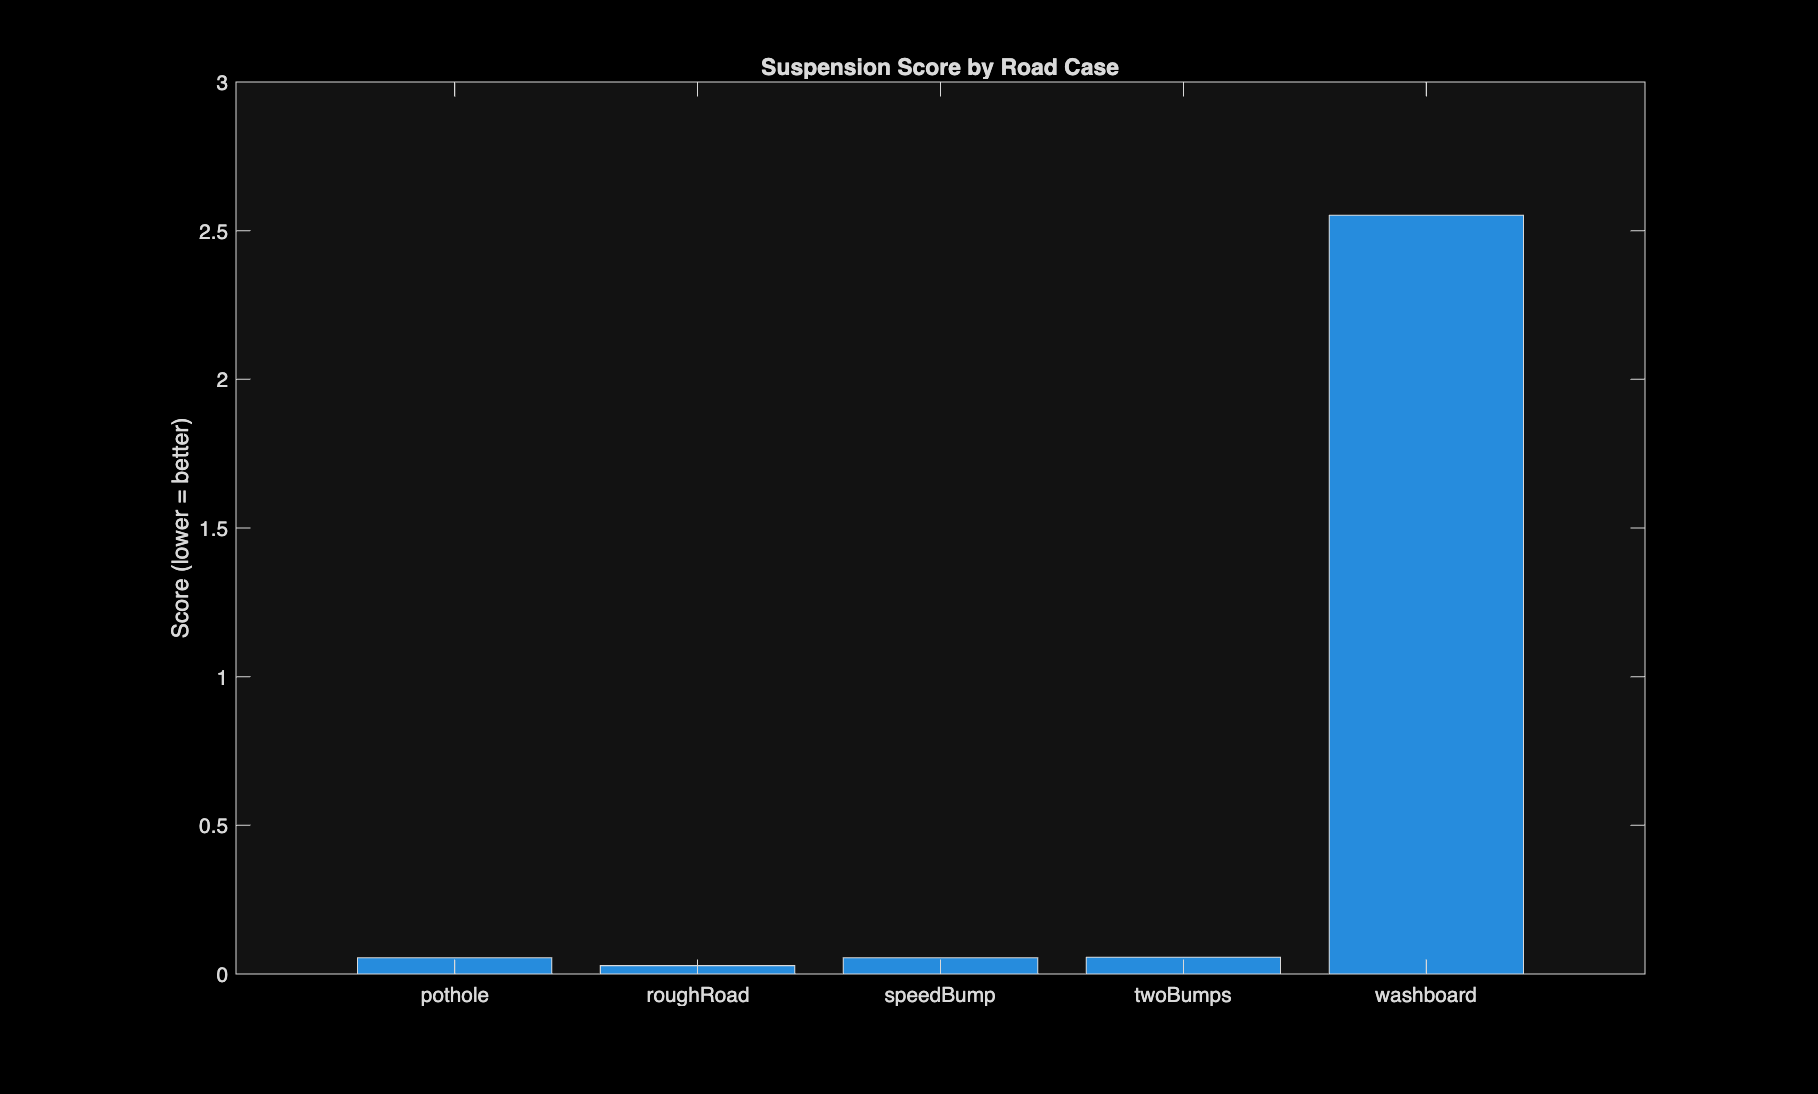
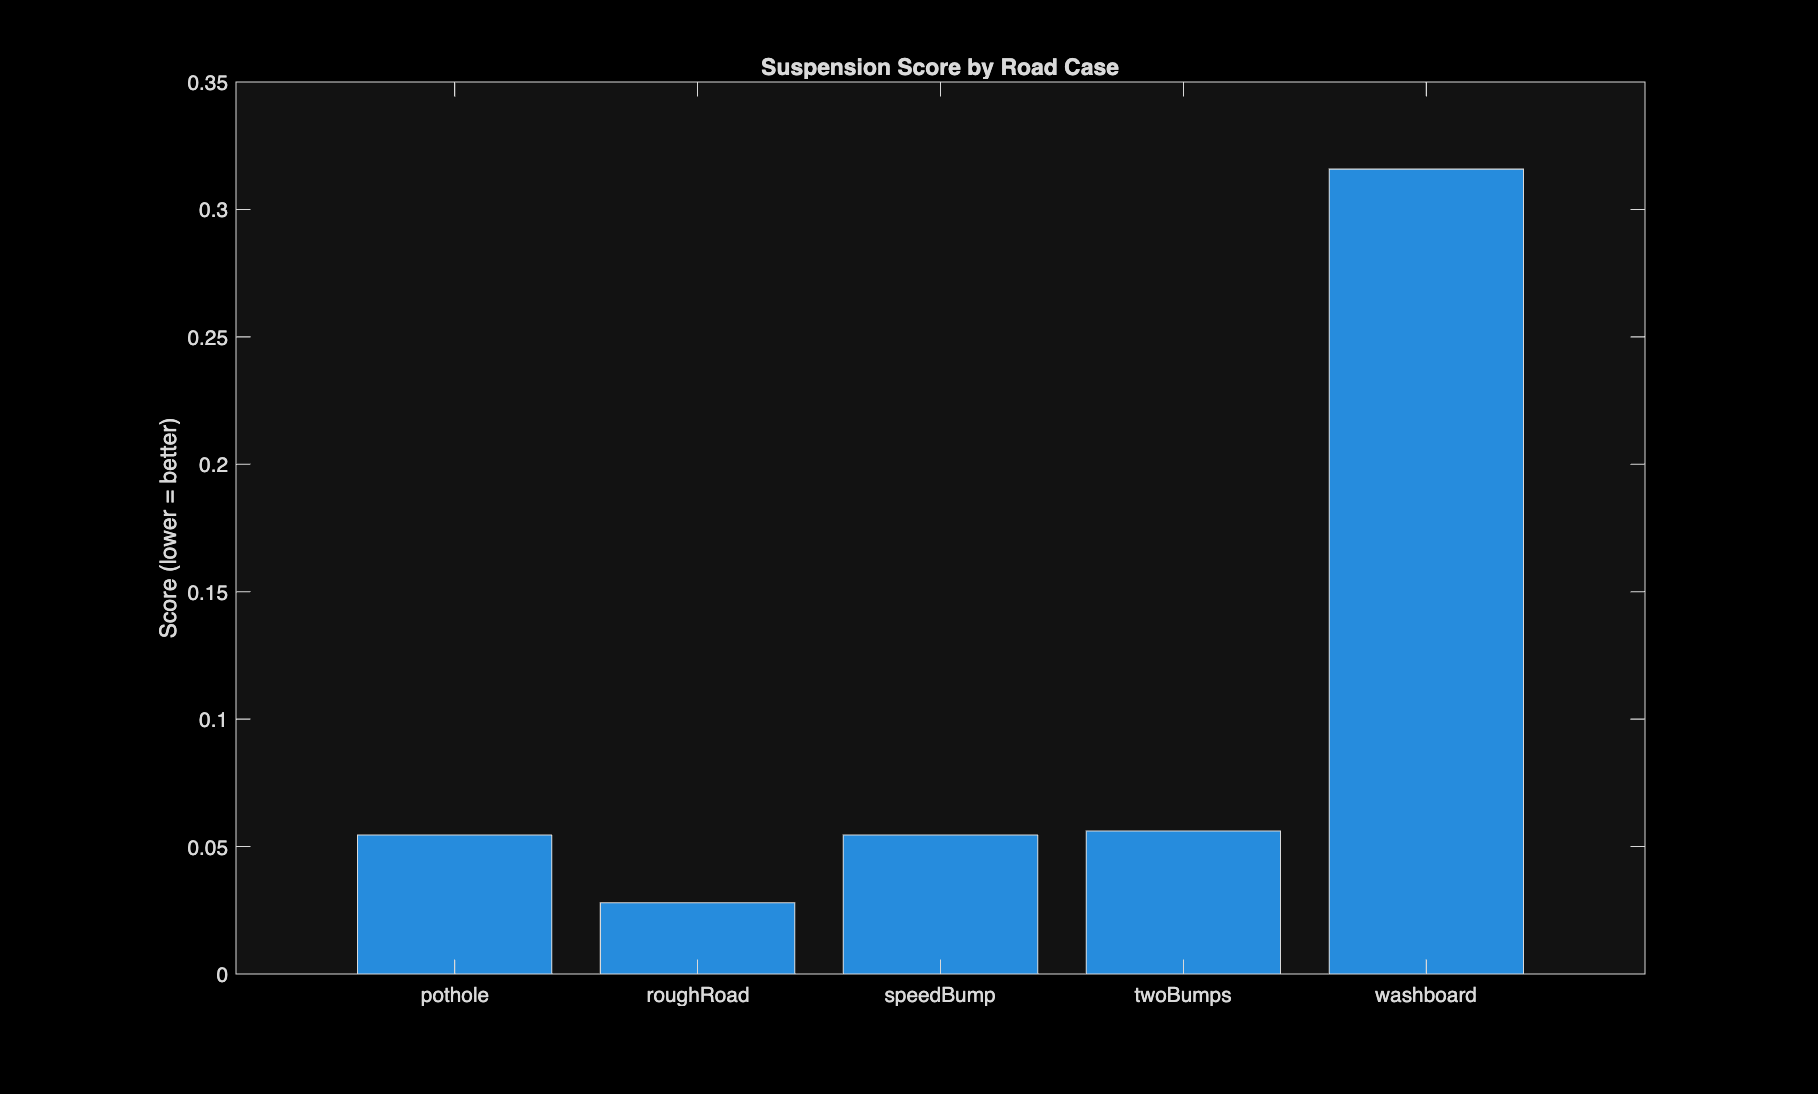
Complete Task 5: tune Ks/Cs via parameter sweep  - Fixed hardcoded Spring Stiffness/Damping Coefficient in Suspension   Joint and Tire Joint blocks (were ignoring Ks/Cs/Kt/Ct variables) - Built tuneSuspension.m: sweeps Ks x Cs (25 combos), scores worst-case   across all road cases, auto-identifies b

diff --git a/tuneSuspension.m b/tuneSuspension.m
@@ -1,0 +1,62 @@
+function tuneResults = tuneSuspension()
+
+setupQuarterCar;
+
+assignin('base', 'Ms', Ms);
+assignin('base', 'Mu', Mu);
+assignin('base', 'Kt', Kt);
+assignin('base', 'Ct', Ct);
+
+KsRange = [12000, 14000, 16000, 18000, 20000];
+CsRange = [1000, 1500, 2000, 2500, 3000];
+
+comfortLimit = 2.0;
+travelLimit = 0.08;
+tireDeflLimit = 0.03;
+
+roadCases = {'speedBump', 'pothole', 'roughRoad', 'washboard', 'twoBumps'};
+
+sweepList = struct([]);
+
+for KsIdx = 1:length(KsRange)
+    for CsIdx = 1:length(CsRange)
+        Ks = KsRange(KsIdx);
+        Cs = CsRange(CsIdx);
+        assignin('base', 'Ks', Ks);
+        assignin('base', 'Cs', Cs);
+        worstScore = -inf;
+        allPass = true;
+        for i = 1:length(roadCases)
+            roadCase = roadCases{i};
+            roadInput = roadSuite(roadCase);
+            assignin('base', 'roadInput', roadInput);
+            simIn = Simulink.SimulationInput('quarterCarModel');
+            out = sim(simIn);
+            results = scoreSuspension(out, roadCase);
+
+            results.pass = results.comfortRMS <= comfortLimit && ...
+                results.packagingMax <= travelLimit && ...
+                results.roadHoldingMax <= tireDeflLimit;
+
+            if results.score > worstScore
+                worstScore = results.score;
+            end
+
+            if ~results.pass
+                allPass = false;
+            end
+        end
+        combo.Ks = Ks;
+        combo.Cs = Cs;
+        combo.worstScore = worstScore;
+        combo.allPass = allPass;
+        sweepList = [sweepList, combo];
+    end
+end
+tuneResults = struct2table(sweepList);
+disp(tuneResults);
+
+sortedResults = sortrows(tuneResults, 'worstScore');
+fprintf('\n--- Best combination (lowest worst-case score) ---\n');
+disp(sortedResults(1,:));
+end

diff --git a/setupQuarterCar.m b/setupQuarterCar.m
@@ -18,8 +18,8 @@ Ms = 300;      % Sprung mass, [kg]
 Mu = 40;       % Unsprung mass, [kg]
 
 %% Suspension parameters
-Ks = 16000;    % Suspension spring stiffness, [N/m]
-Cs = 1500;     % Suspension damping coefficient, [N*s/m]
+Ks = 12000;    % Suspension spring stiffness, [N/m]
+Cs = 1000;     % Suspension damping coefficient, [N*s/m]
 
 %% Tire parameters
 Kt = 190000;   % Tire stiffness, [N/m]